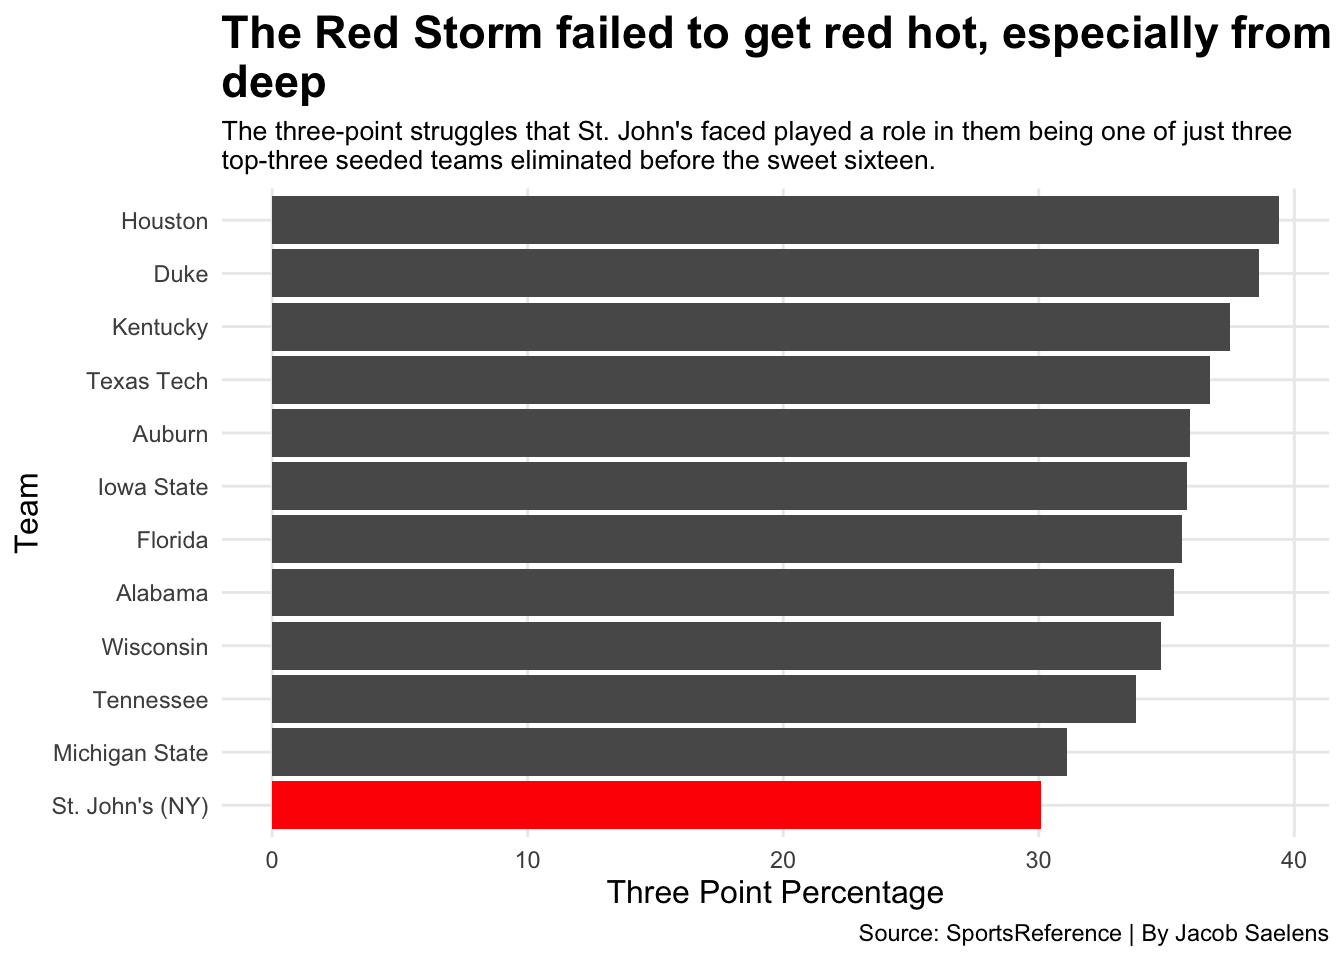
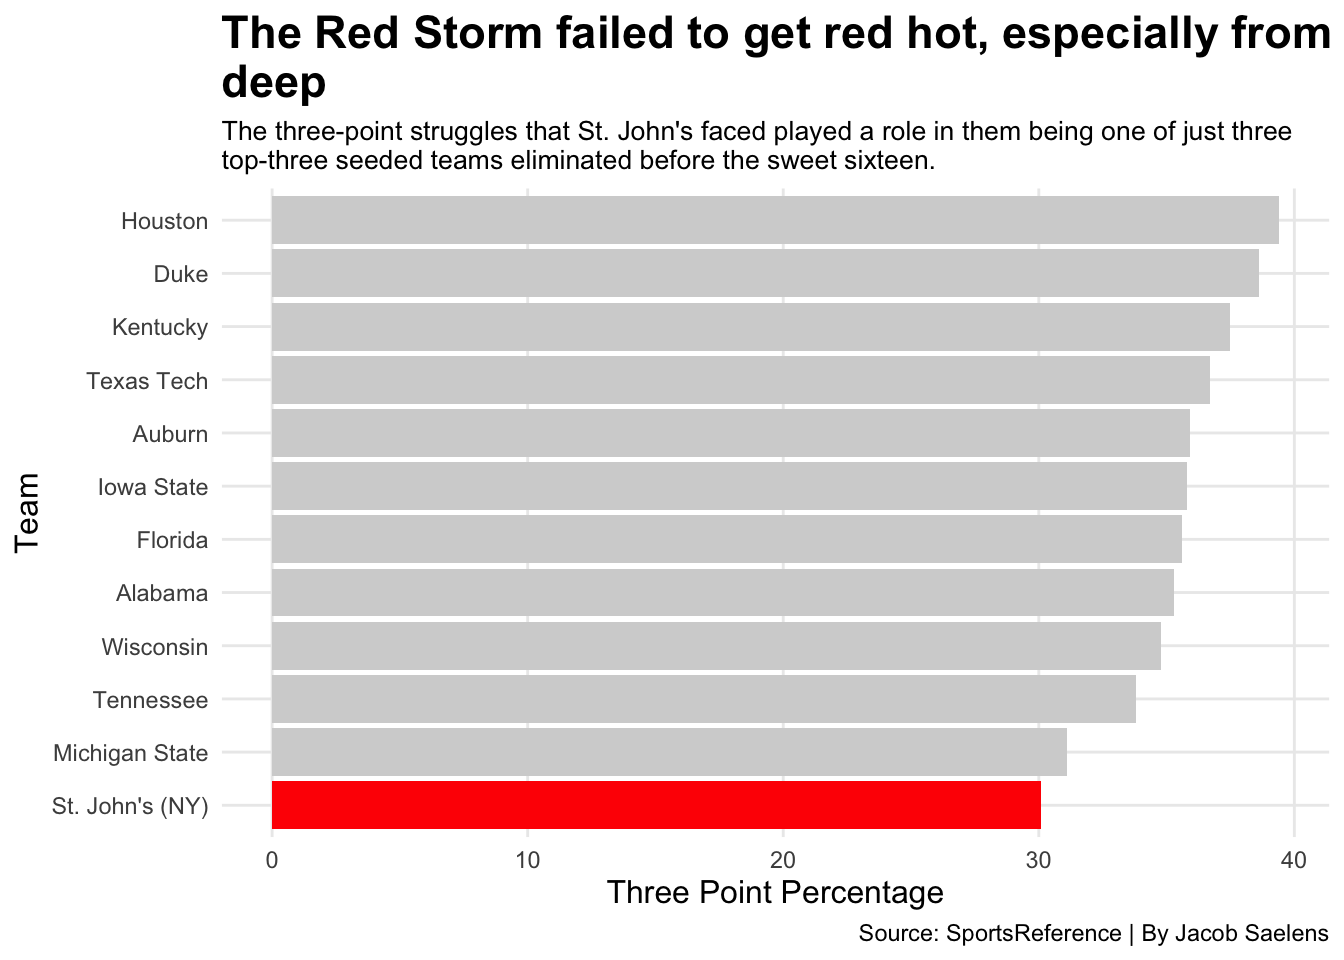
fill

diff --git a/posts/st-johns-basketball-offense-defense/index.html b/posts/st-johns-basketball-offense-defense/index.html
@@ -233,7 +233,7 @@ pre > code.sourceCode > span > a:first-child::before { text-decoration: underlin
 <span id="cb1-29"><a href="#cb1-29" aria-hidden="true" tabindex="-1"></a>  <span class="fu">geom_text</span>(<span class="fu">aes</span>(<span class="at">x=</span><span class="dv">31</span>, <span class="at">y=</span><span class="fl">68.40</span>, <span class="at">label=</span><span class="st">"St. John's"</span>), <span class="at">color=</span><span class="st">"black"</span>) <span class="sc">+</span></span>
 <span id="cb1-30"><a href="#cb1-30" aria-hidden="true" tabindex="-1"></a>  <span class="fu">geom_text</span>(<span class="fu">aes</span>(<span class="at">x=</span><span class="dv">6</span>, <span class="at">y=</span><span class="dv">60</span>, <span class="at">label=</span><span class="st">"Arkansas-Pine Bluff"</span>), <span class="at">color=</span><span class="st">"black"</span>) <span class="sc">+</span></span>
 <span id="cb1-31"><a href="#cb1-31" aria-hidden="true" tabindex="-1"></a>  <span class="fu">geom_text</span>(<span class="fu">aes</span>(<span class="at">x=</span><span class="dv">28</span>, <span class="at">y=</span><span class="dv">62</span>, <span class="at">label=</span><span class="st">"High win total, low free throw %"</span>), <span class="at">color=</span><span class="st">"blue"</span>) <span class="sc">+</span></span>
-<span id="cb1-32"><a href="#cb1-32" aria-hidden="true" tabindex="-1"></a>  <span class="fu">geom_text</span>(<span class="fu">aes</span>(<span class="at">x=</span><span class="fl">9.55</span>, <span class="at">y=</span><span class="dv">84</span>, <span class="at">label=</span><span class="st">"Low win total, high free throw %"</span>), <span class="at">color=</span><span class="st">"blue"</span>) <span class="sc">+</span></span>
+<span id="cb1-32"><a href="#cb1-32" aria-hidden="true" tabindex="-1"></a>  <span class="fu">geom_text</span>(<span class="fu">aes</span>(<span class="at">x=</span><span class="fl">9.55</span>, <span class="at">y=</span><span class="dv">84</span>, <span class="at">label=</span><span class="st">"Low win total, high free throw percentage"</span>), <span class="at">color=</span><span class="st">"blue"</span>) <span class="sc">+</span></span>
 <span id="cb1-33"><a href="#cb1-33" aria-hidden="true" tabindex="-1"></a>  <span class="fu">labs</span>(</span>
 <span id="cb1-34"><a href="#cb1-34" aria-hidden="true" tabindex="-1"></a>    <span class="at">x=</span><span class="st">"Wins"</span>, </span>
 <span id="cb1-35"><a href="#cb1-35" aria-hidden="true" tabindex="-1"></a>    <span class="at">y=</span><span class="st">"Free Throw Percentage"</span>, </span>
@@ -336,7 +336,7 @@ pre > code.sourceCode > span > a:first-child::before { text-decoration: underlin
 <span id="cb3-20"><a href="#cb3-20" aria-hidden="true" tabindex="-1"></a>  )</span>
 <span id="cb3-21"><a href="#cb3-21" aria-hidden="true" tabindex="-1"></a></span>
 <span id="cb3-22"><a href="#cb3-22" aria-hidden="true" tabindex="-1"></a><span class="fu">ggplot</span>() <span class="sc">+</span> </span>
-<span id="cb3-23"><a href="#cb3-23" aria-hidden="true" tabindex="-1"></a>  <span class="fu">geom_bar</span>(<span class="at">data=</span>topseeds, <span class="fu">aes</span>(<span class="at">x=</span><span class="fu">reorder</span>(School, ThreePointPercentage), <span class="at">weight=</span>ThreePointPercentage)) <span class="sc">+</span> </span>
+<span id="cb3-23"><a href="#cb3-23" aria-hidden="true" tabindex="-1"></a>  <span class="fu">geom_bar</span>(<span class="at">data=</span>topseeds, <span class="fu">aes</span>(<span class="at">x=</span><span class="fu">reorder</span>(School, ThreePointPercentage), <span class="at">weight=</span>ThreePointPercentage), <span class="at">fill=</span><span class="st">"lightgrey"</span>) <span class="sc">+</span> </span>
 <span id="cb3-24"><a href="#cb3-24" aria-hidden="true" tabindex="-1"></a>  <span class="fu">geom_bar</span>(<span class="at">data=</span>johnnies, <span class="fu">aes</span>(<span class="at">x=</span><span class="fu">reorder</span>(School, ThreePointPercentage), <span class="at">weight=</span>ThreePointPercentage), <span class="at">fill=</span><span class="st">"red"</span>) <span class="sc">+</span></span>
 <span id="cb3-25"><a href="#cb3-25" aria-hidden="true" tabindex="-1"></a>  <span class="fu">coord_flip</span>() <span class="sc">+</span></span>
 <span id="cb3-26"><a href="#cb3-26" aria-hidden="true" tabindex="-1"></a>  <span class="fu">labs</span>(</span>

diff --git a/index.html b/index.html
@@ -205,7 +205,7 @@ window.Quarto = {
 
 <div class="quarto-listing quarto-listing-container-default" id="listing-listing">
 <div class="list quarto-listing-default">
-<div class="quarto-post image-right" data-index="0" data-categories="ncaa,basketball,marchmadness,bigeast,stjohns,pitino,offense,defense" data-listing-date-sort="1713070800000" data-listing-file-modified-sort="1744667651768" data-listing-date-modified-sort="NaN" data-listing-reading-time-sort="7" data-listing-word-count-sort="1227">
+<div class="quarto-post image-right" data-index="0" data-categories="ncaa,basketball,marchmadness,bigeast,stjohns,pitino,offense,defense" data-listing-date-sort="1713070800000" data-listing-file-modified-sort="1744729080699" data-listing-date-modified-sort="NaN" data-listing-reading-time-sort="7" data-listing-word-count-sort="1228">
 <div class="thumbnail">
 <p><a href="./posts/st-johns-basketball-offense-defense/index.html" class="no-external"></a></p><a href="./posts/st-johns-basketball-offense-defense/index.html" class="no-external">
 <p><img loading="lazy" src="./posts/st-johns-basketball-offense-defense/image.png" class="thumbnail-image"></p>
